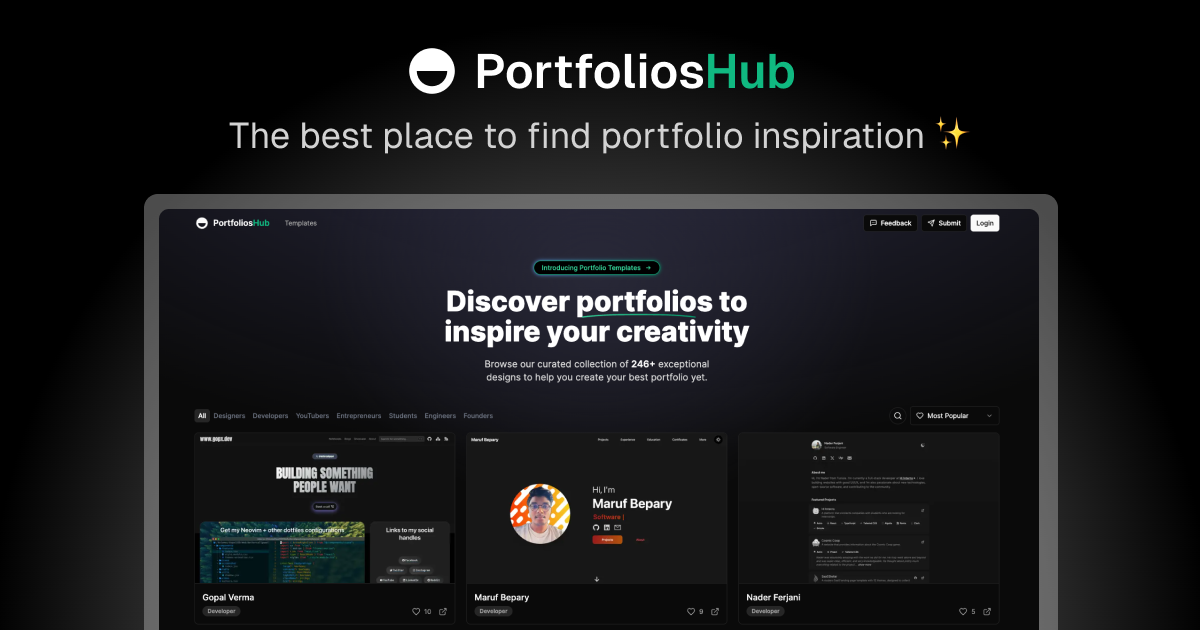
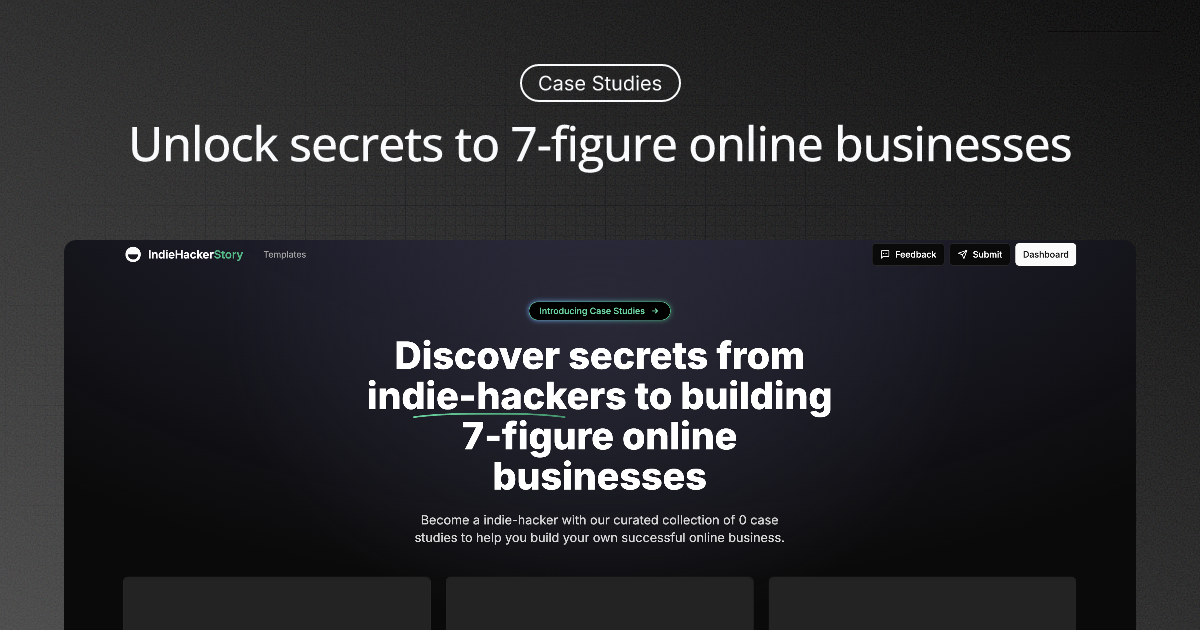
e

diff --git a/src/app/(unauthenticated)/(landing)/_components/hero.tsx b/src/app/(unauthenticated)/(landing)/_components/hero.tsx
@@ -75,13 +75,13 @@ export default function Hero() {
         </h1>
       </div>
       <p className="text-neutral-700 dark:text-neutral-300 mx-auto block text-balance max-w-sm text-center text-base md:max-w-3xl md:text-lg xl:text-xl">
-        Browse our curated collection of{' '}
+        Become a indie-hacker with our curated collection of{' '}
         {numberOfPortfolios && (
           <span className="text-foreground font-semibold">
             {numberOfPortfolios}+
           </span>
         )}{' '}
-        exceptional designs to help you create your best portfolio yet.
+        case studies to help you build your own successful online business.
       </p>
     </>
   );
